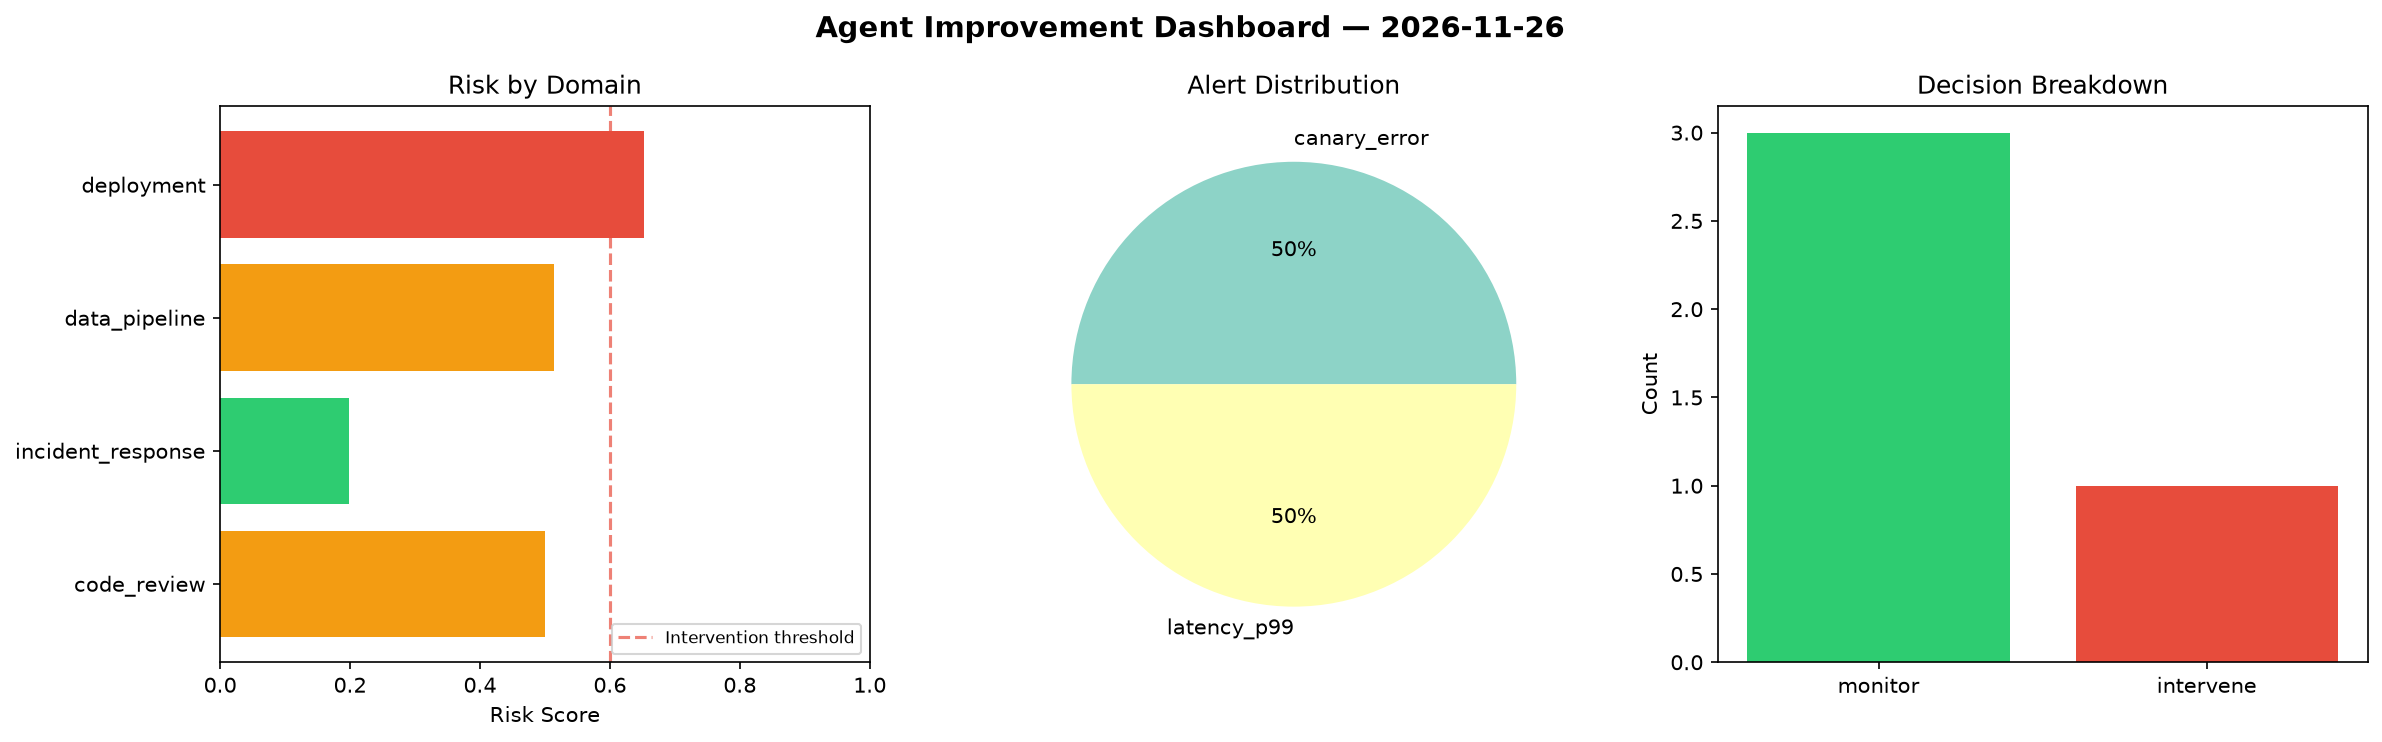
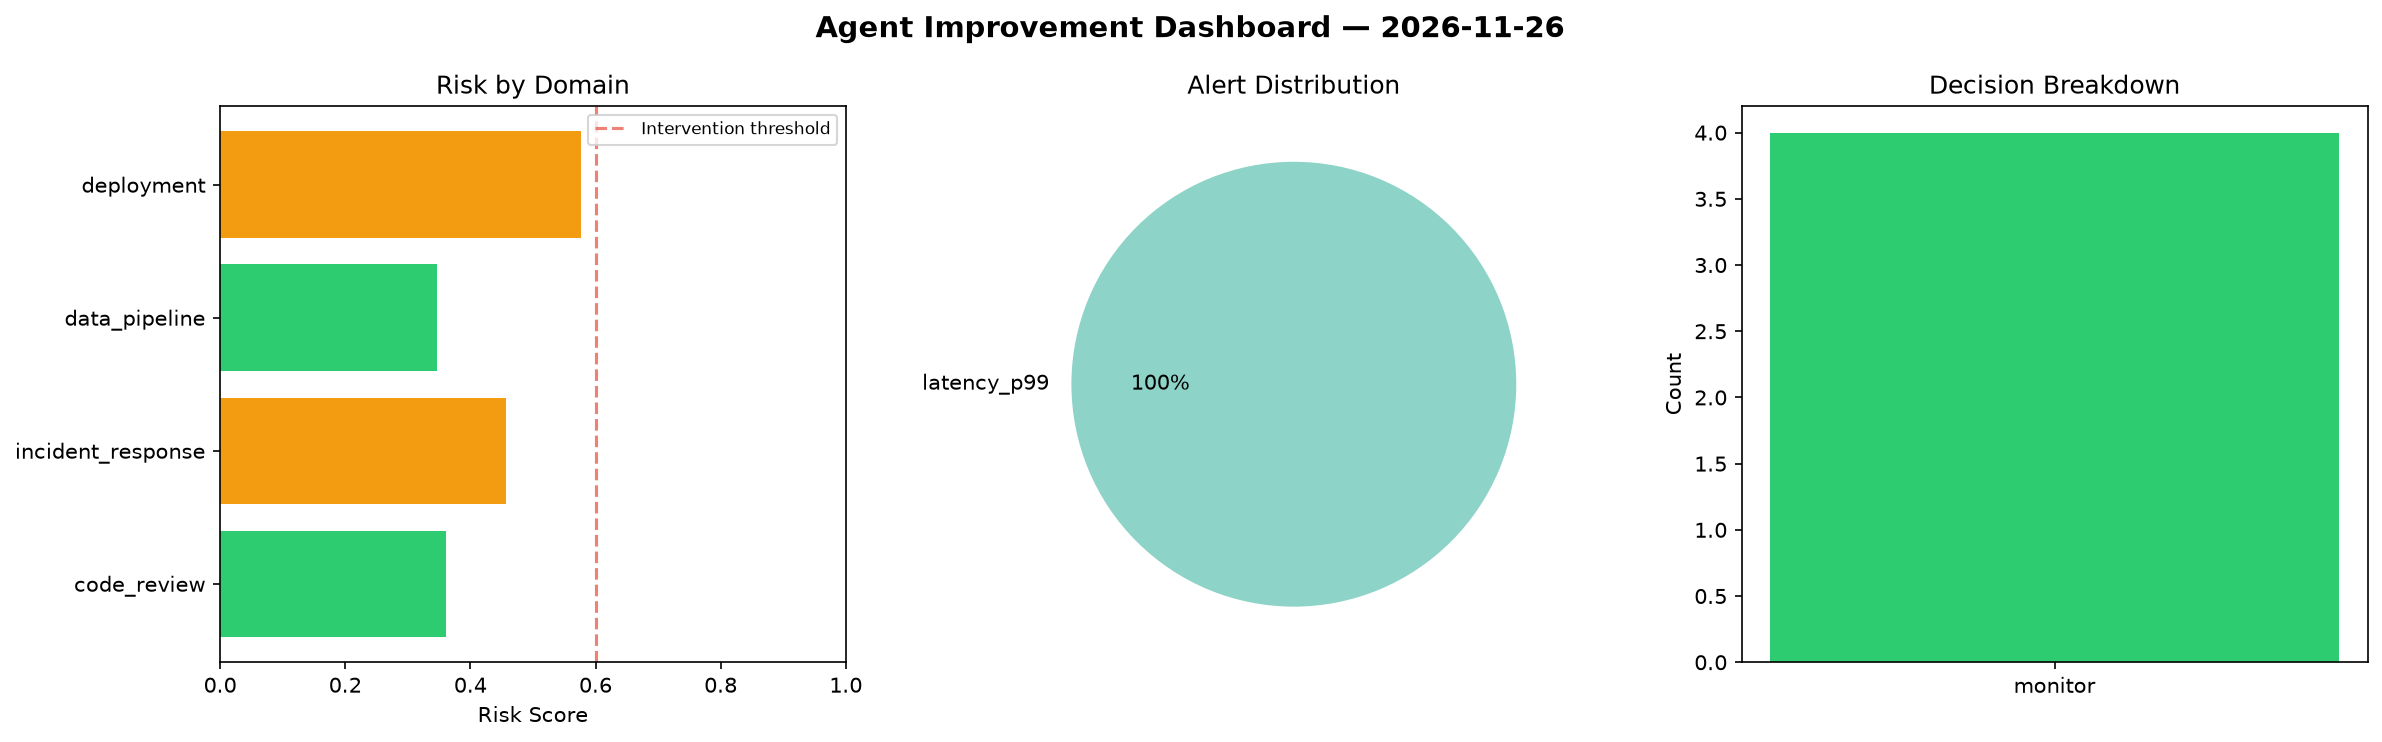
agent-improvement: daily cycle 2026-11-26T10:49

diff --git a/logs/2026-11-26.md b/logs/2026-11-26.md
@@ -1,6 +1,6 @@
 # Agent Improvement Report — 2026-11-26
 
-**Cycle ID:** `7fc05e68` | **Avg Risk:** 0.4659 | **Interventions:** 1/4
+**Cycle ID:** `71485c3c` | **Avg Risk:** 0.4355 | **Interventions:** 0/4
 
 ![Dashboard](2026-11-26_dashboard.png)
 
@@ -10,18 +10,18 @@
 
 | Domain | Risk Score | Decision | Alerts |
 |--------|-----------|----------|--------|
-| code_review | 0.4996 | monitor | none |
-| incident_response | 0.1982 | monitor | none |
-| data_pipeline | 0.5132 | monitor | none |
-| deployment | 0.6528 | intervene | canary_error, latency_p99 |
+| code_review | 0.3608 | monitor | none |
+| incident_response | 0.4575 | monitor | none |
+| data_pipeline | 0.3472 | monitor | none |
+| deployment | 0.5766 | monitor | latency_p99 |
 
 ## Delta vs Yesterday
 
 | Domain | Today | Yesterday | Change |
 |--------|-------|-----------|--------|
-| code_review | 0.4996 | 0.3497 | 📈 42.9% |
-| incident_response | 0.1982 | 0.7684 | 📉 -74.2% |
-| data_pipeline | 0.5132 | 0.665 | 📉 -22.8% |
-| deployment | 0.6528 | 0.237 | 📈 175.4% |
+| code_review | 0.3608 | 0.3497 | 📈 3.2% |
+| incident_response | 0.4575 | 0.7684 | 📉 -40.5% |
+| data_pipeline | 0.3472 | 0.665 | 📉 -47.8% |
+| deployment | 0.5766 | 0.237 | 📈 143.3% |
 
 **Refinement:** `{'adjustment': 'tighten_thresholds', 'trend': 'degrading', 'window': 4}`
